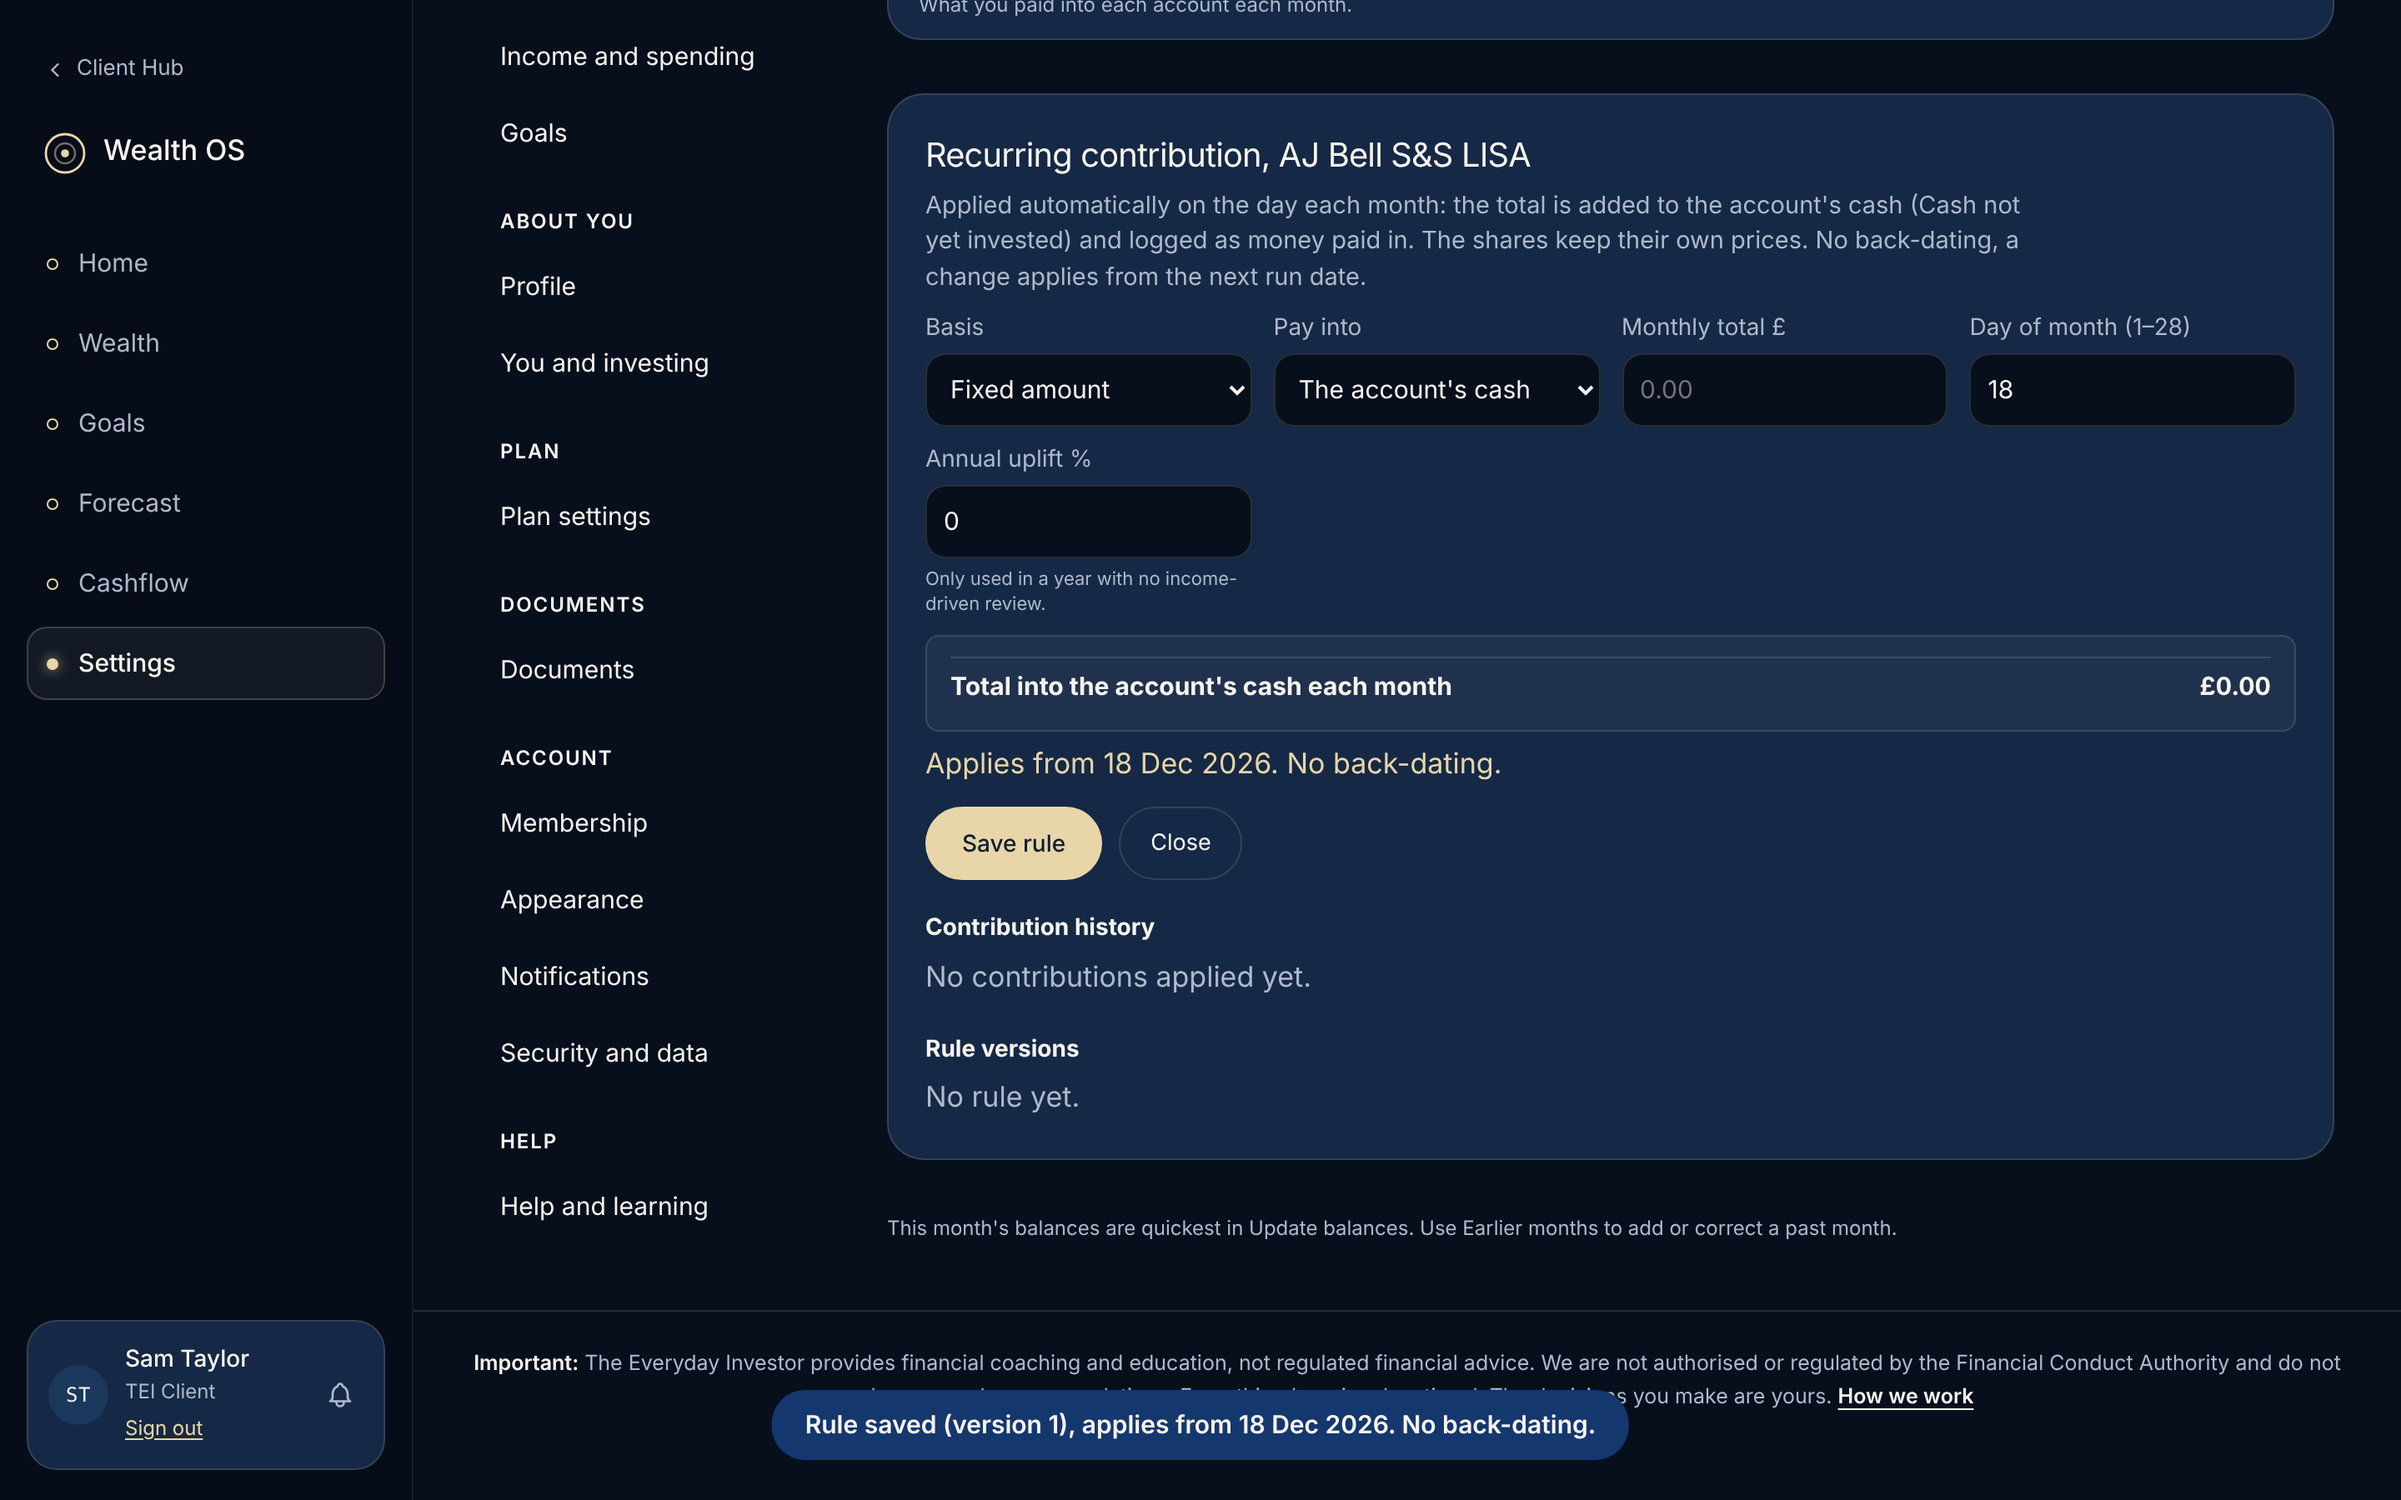
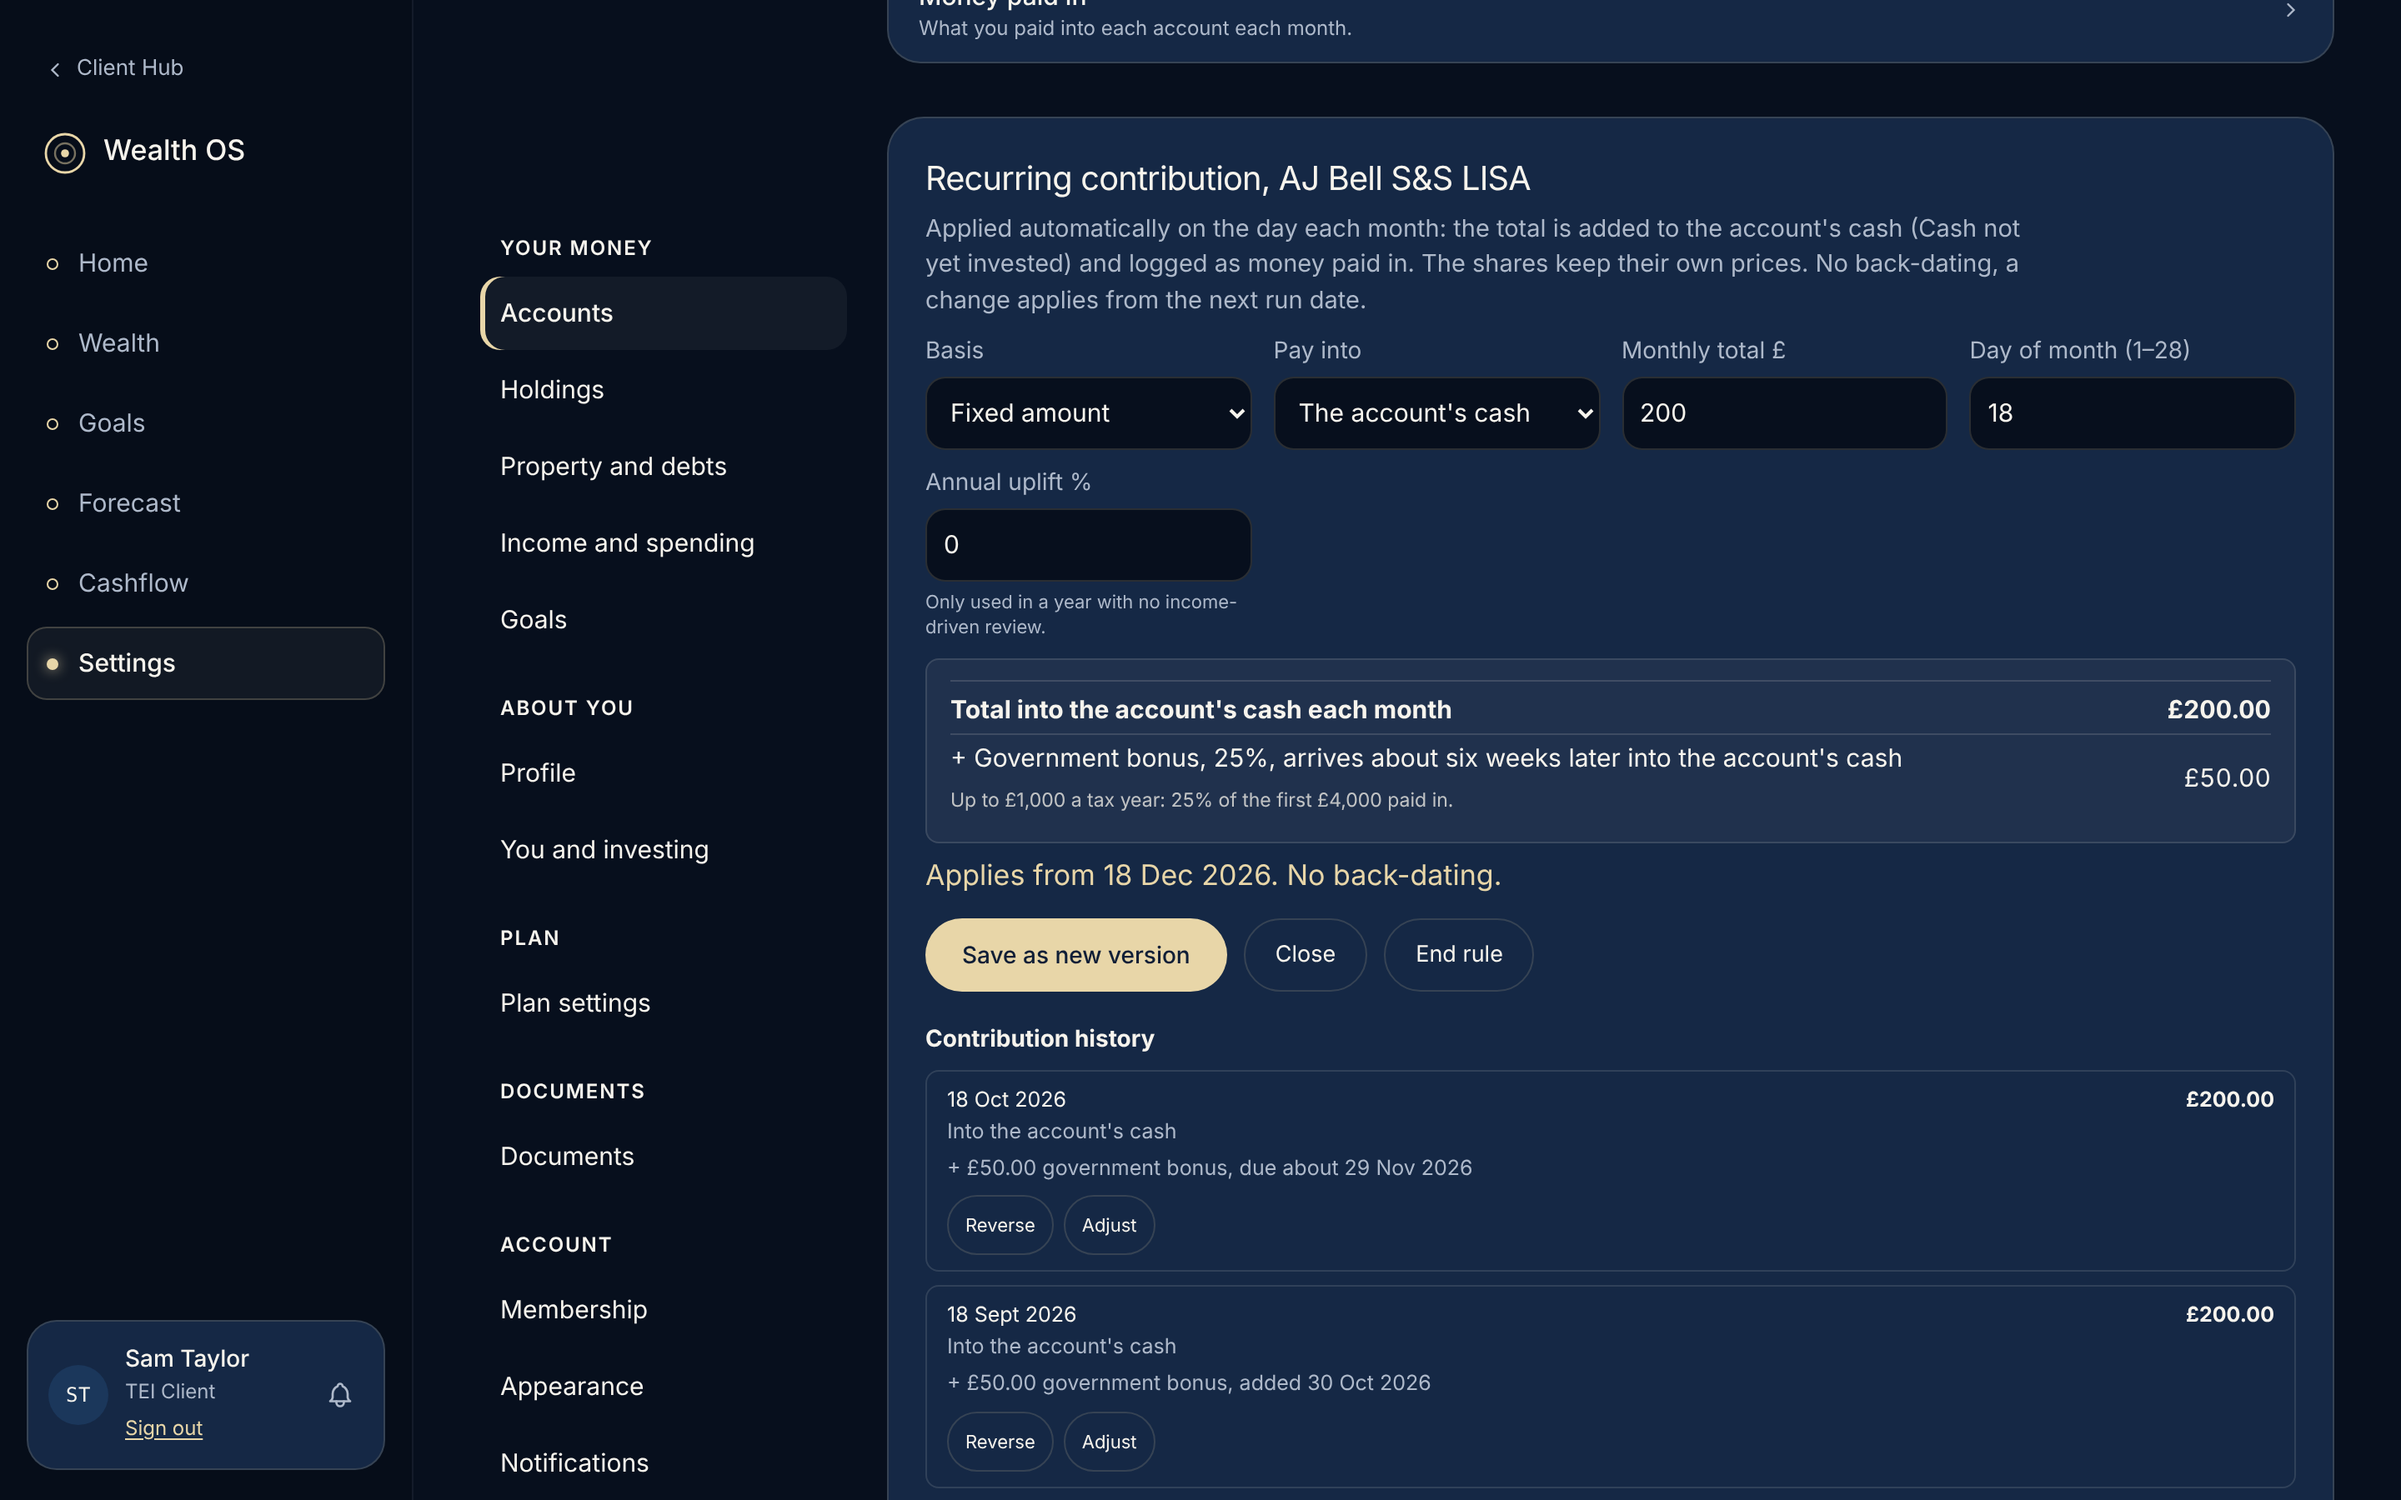
LISA government bonus on contribution rules
Each rule payment into a LISA (stocks and shares or cash) now logs the
25% government bonus as money paid in, so it shows as 'Government bonus',
pending for 4-8 weeks. About six weeks later (42 days, on the engine's
daily run) the bonus is added to the account: its cash when it holds
funds, otherwise its balance. Capped at 25% of the first £4,000 paid in
each tax year, counting money logged by hand. Reverse and Adjust take the
bonus with them. New columns contribution_runs.bonus_amount and
bonus_applied_at; run_contribution_engine gains step C and joins the
guarded functions in migration 027 (still not applied).

The rule editor shows the bonus under the monthly total, the history
shows each bonus as due or added, and the summary line says + 25% bonus.

Database tests: 11 checks; the new one covers the bonus, its timing,
the cap and reversal.

Claude-Session: https://claude.ai/code/session_015wx5SxsDrR1hMEmXmcD6hN

diff --git a/hub/js/wealth-os/11-adviser.js b/hub/js/wealth-os/11-adviser.js
@@ -3132,7 +3132,7 @@ window.TEI = window.TEI || {};
     const flags = pendingFlags(acc.id);
     const basis = rule.basis === 'salary_derived' ? `salary-derived (${fmtGBP(rule.gross_annual_salary)} gross)` : 'fixed';
     const toBalance = paysIntoBalance(rule);
-    return `<div class="ep-rule">Recurring contribution <strong>${fmtGBP2(monthly)}/mo</strong> on day ${rule.day_of_month} · ${basis}${toBalance ? (hasFunds(acc.id) ? ' · into cash' : ' · into the balance') : ''}${Number(rule.annual_uplift_pct)>0 ? ' · uplift '+fmtPct(rule.annual_uplift_pct)+'/yr' : ''}${flags.length ? ` <span class="flag-badge" title="Income changed, review the contribution">${flags.length} pending flag${flags.length>1?'s':''}</span>` : ''}</div>`;
+    return `<div class="ep-rule">Recurring contribution <strong>${fmtGBP2(monthly)}/mo</strong> on day ${rule.day_of_month} · ${basis}${toBalance ? (hasFunds(acc.id) ? ' · into cash' : ' · into the balance') : ''}${isLisa(acc.id) ? ' · + 25% bonus' : ''}${Number(rule.annual_uplift_pct)>0 ? ' · uplift '+fmtPct(rule.annual_uplift_pct)+'/yr' : ''}${flags.length ? ` <span class="flag-badge" title="Income changed, review the contribution">${flags.length} pending flag${flags.length>1?'s':''}</span>` : ''}</div>`;
   }
   /* Settings > Accounts > <account> drawer: the same rule summary and
      switches the Manual Entry account card shows, adviser view only (the
@@ -3278,6 +3278,9 @@ window.TEI = window.TEI || {};
   function hasFunds(accountId){ return client.holdings.some(h=>h.accountId===accountId); }
   function paysIntoBalance(rule){ return !!rule && !(rule.allocations||[]).length; }
   function isBalanceRun(run){ return !(run.allocations||[]).length; }
+  // LISA government bonus (migration 027): 25%, arrives about six weeks after each payment.
+  function isLisa(accountId){ const a = client.accounts.find(x=>x.id===accountId); return !!a && (a.type === 'lisa' || a.type === 'cash_lisa'); }
+  const BONUS_DAYS = 42;
   /* Where a rule with no funds pays (migration 027): the account's cash
      when it holds funds, otherwise its balance. */
   function noFundsTarget(accountId){ return hasFunds(accountId) ? "the account's cash" : 'the account balance'; }
@@ -3472,6 +3475,7 @@ window.TEI = window.TEI || {};
     crEl('crBreakdown').innerHTML = `<table>
       ${rows.map(r=>`<tr><td>${r[0]}</td><td>${r[1]}</td></tr>`).join('')}
       <tr class="total"><td>Total into ${oneTotal() ? noFundsTarget(crAccountId) : 'funds'} each month</td><td>${fmtGBP2(res.total)}</td></tr>
+      ${isLisa(crAccountId) && Number(res.total) > 0 ? `<tr><td>+ Government bonus, 25%, arrives about six weeks later${hasFunds(crAccountId) ? " into the account's cash" : ''}<br><span style="font-size:11.5px; opacity:.75;">Up to £1,000 a tax year: 25% of the first £4,000 paid in.</span></td><td>${fmtGBP2(Math.round(Number(res.total)*25)/100)}</td></tr>` : ''}
       ${split.map(r=>`<tr><td>${r[0]}</td><td>${r[1]}</td></tr>`).join('')}
       ${info.map(r=>`<tr style="opacity:.75; font-size:12px;"><td>${r[0]}</td><td>${r[1]}</td></tr>`).join('')}
     </table>`;
@@ -3520,10 +3524,12 @@ window.TEI = window.TEI || {};
       if(Number(run.employer_amount) > 0) parts.push('employer ' + fmtGBP2(run.employer_amount));
       if(Number(run.sacrifice_amount) > 0) parts.push('salary sacrifice ' + fmtGBP2(run.sacrifice_amount));
       if(Number(run.relief_amount) > 0) parts.push('tax relief ' + fmtGBP2(run.relief_amount));
+      const bonus = Number(run.bonus_amount) > 0 && run.status !== 'reversed'
+        ? `<div class="small" style="margin-top:3px;">+ ${fmtGBP2(run.bonus_amount)} government bonus, ${run.bonus_applied_at ? 'added ' + fmtDateShort(run.bonus_applied_at) : 'due about ' + fmtDateShort(new Date(new Date(run.run_date).getTime() + BONUS_DAYS*864e5).toISOString().slice(0, 10))}</div>` : '';
       const split = isBalanceRun(run) ? 'Into ' + noFundsTarget(run.account_id) : (run.allocations||[]).map(a=>`${esc(holdingName(a.holding_id))} ${fmtGBP2(a.amount)}`).join(' · ');
       return `<div class="cr-run ${run.status}">
         <div class="cr-run-head"><span>${fmtDateShort(run.run_date)}${run.status !== 'applied' ? ` <span class="tag-pill">${run.status}</span>` : ''}</span><strong>${fmtGBP2(run.total_amount)}</strong></div>
-        <div>${split}${parts.length ? ', incl. ' + parts.join(', ') : ''}</div>
+        <div>${split}${parts.length ? ', incl. ' + parts.join(', ') : ''}</div>${bonus}
         ${run.correction_note ? `<div class="small" style="margin-top:3px;">Note: ${esc(run.correction_note)}${run.corrected_at ? ' (' + fmtDateShort(run.corrected_at) + ')' : ''}</div>` : ''}
         ${run.status !== 'reversed' ? `<div class="cr-run-actions"><button type="button" class="btn-ghost" data-run-reverse="${run.id}">Reverse</button><button type="button" class="btn-ghost" data-run-adjust="${run.id}">Adjust</button></div>` : ''}
         <div data-run-adjust-box="${run.id}"></div>
@@ -3562,6 +3568,7 @@ window.TEI = window.TEI || {};
       ${isBalanceRun(run)
         ? `<div class="cr-fund"><span>Into ${noFundsTarget(run.account_id)}</span><input type="number" step="0.01" min="0" data-adj-balance value="${Number(run.total_amount)}"></div>`
         : (run.allocations||[]).map(a=>`<div class="cr-fund"><span>${esc(holdingName(a.holding_id))}</span><input type="number" step="0.01" min="0" data-adj-fund="${a.holding_id}" value="${Number(a.amount)}"></div>`).join('')}
+      ${Number(run.bonus_amount) > 0 ? `<div class="small">The ${fmtGBP2(run.bonus_amount)} government bonus changes in proportion.</div>` : ''}
       <label class="form-field"><span>Note (required)</span><input type="text" data-adj-note placeholder="e.g. payslip showed £280"></label>
       <div class="cr-run-actions"><button type="button" class="btn-primary" data-adj-apply>Apply adjustment</button><button type="button" class="btn-ghost" data-adj-cancel>Cancel</button></div>
     </div>`;

diff --git a/scripts/wos-demo/demo-client.js b/scripts/wos-demo/demo-client.js
@@ -121,6 +121,22 @@
       hold(aj, {name: 'Alphabet', ticker: 'GOOG', value: 1300, cost_basis: 1100, price_source: 'auto_us'}),
       hold(aj, {name: 'Microsoft', ticker: 'MSFT', value: 800, cost_basis: 700, price_source: 'auto_us'}));
     for(var ab = 11; ab >= 0; ab--) account_months.push({id: id(), account_id: aj.id, month_key: mk(ab), value: Math.round(4200*(0.7 + 0.3*(11 - ab)/11)), carried_forward: false, last_edited_at: iso(ab*30)});
+    // Its rule pays £200 a month into cash; the 25% bonus lands about six weeks later.
+    Object.assign(aj, {has_contribution_rule: true, contribution: 200, cash_balance: 450});
+    var ajRule = id();
+    rules.push({id: ajRule, account_id: aj.id, version: 1, effective_from: dateIn(-3), effective_to: null, basis: 'fixed',
+      allocation_method: 'percentage', total_amount: 200, day_of_month: 18, annual_uplift_pct: 0, linked_income_id: null,
+      gross_annual_salary: null, pensionable_basis: null, employee_pct: null, employer_pct: null, employer_match_cap_pct: null,
+      contribution_method: null, employer_ni_passon_pct: 0, change_reason: 'created', created_at: iso(90), created_by: UID,
+      contribution_rule_allocations: []});
+    ruleState.push({account_id: aj.id, start_date: dateIn(-3), next_uplift_date: dateIn(9), last_reviewed_at: dateIn(-3), last_review_source: 'created'});
+    [2, 1].forEach(function(b){
+      var d = new Date(now.getFullYear(), now.getMonth() - b, 18), landed = new Date(d.getTime() + 42*864e5);
+      ruleRuns.push({id: id(), account_id: aj.id, rule_id: ajRule, run_date: d.toISOString().slice(0, 10), month_key: mk(b), total_amount: 200,
+        employee_amount: null, employer_amount: 0, sacrifice_amount: 0, relief_amount: 0, allocations: [], status: 'applied',
+        bonus_amount: 50, bonus_applied_at: landed <= now ? landed.toISOString().slice(0, 10) : null, applied_at: iso(b*30)});
+      account_deposits.push({id: id(), account_id: aj.id, month_key: mk(b), amount: 200, sacrifice_amount: 0, relief_amount: 50});
+    });
     [3, 2, 1].forEach(function(b){
       var d = new Date(now.getFullYear(), now.getMonth() - b, 15).toISOString().slice(0, 10);
       ruleRuns.push({id: id(), account_id: wp.id, rule_id: wpRule, run_date: d, month_key: mk(b), total_amount: 300, employee_amount: 300,

diff --git a/supabase/tests/027/README.md b/supabase/tests/027/README.md
@@ -10,4 +10,4 @@ psql -d wos027 -v ON_ERROR_STOP=1 -1 -f ../../migrations/027_contribution_rule_b
 psql -d wos027 -v ON_ERROR_STOP=1 -f 10_tests.sql
 ```
 
-`00_schema.sql` is a copy of the live `wealth_os` tables the engine touches, and `01_…sql` holds the live engine functions as they were before 027. Every block in `10_tests.sql` prints `PASS …` or stops with `FAIL …`. Without 027 applied, the tests stop at `FAIL 1b` (a rule with no funds is refused), which shows they exercise the change. Check 10 covers an account holding only auto-priced shares (pays into its cash).
+`00_schema.sql` is a copy of the live `wealth_os` tables the engine touches, and `01_…sql` holds the live engine functions as they were before 027. Every block in `10_tests.sql` prints `PASS …` or stops with `FAIL …`. Without 027 applied, the tests stop at `FAIL 1b` (a rule with no funds is refused), which shows they exercise the change. Check 10 covers an account holding only auto-priced shares (pays into its cash), and check 11 the LISA government bonus.
